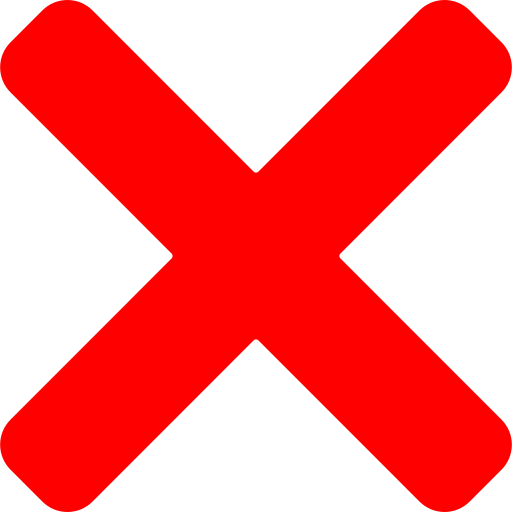
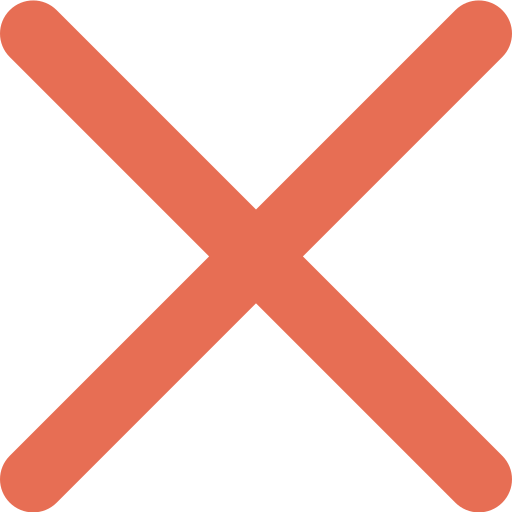
찐최종

diff --git a/src/components/Pages/Community/SubComponents/CommuNoticeDetail.css b/src/components/Pages/Community/SubComponents/CommuNoticeDetail.css
@@ -34,8 +34,8 @@
 .CommuNoticeEditButton{
     padding:10px 20px;
     background-color: transparent;
-    border:1px solid blue;
-    color:blue;
+    border:1px solid #0073CF;
+    color:#0073CF;
     cursor: pointer;
     display: flex;
 }
@@ -60,23 +60,22 @@
 }
 .CommuQnaEditDetailButtonWrap>button:first-child{
     background:transparent;
-    border:1px solid blue;
-    color:blue;
+    border:1px solid #0073CF;
+    color:#0073CF;
 }
 .CommuQnaEditDetailButtonWrap>button:last-child{
     background-color:transparent;
-    border:1px solid red;
-    color:red;
+    border:1px solid #E76E54;
+    color:#E76E54;
 }
 .CommuDetailDeleteButton{
     padding:10px 20px;
-    border:1px solid red;
-    color:red;
+    border:1px solid #E76E54;
+    color:#E76E54;
     background-color: transparent;
     margin-left: 10px;
     cursor: pointer;
     display: flex;
-    font-weight: bold;
 }
 
 .CommuNoticePageButtonIcon{
@@ -91,5 +90,5 @@
     height:16px;
     background: url(../img/delete_red.png) center;
     background-size: cover;
-    margin:2px 5px 0 0;
+    margin:3px 5px 0 0;
 }

diff --git a/src/components/Pages/Community/SubComponents/CommuQnaDetail.css b/src/components/Pages/Community/SubComponents/CommuQnaDetail.css
@@ -20,17 +20,17 @@
     display: flex;
 }
 .CommuQnaButtonWrap>div>div>button:first-child{
-    border:1px solid blue;
-    color:blue;
+    border:1px solid #0073CF;
+    color:#0073CF;
     background-color: transparent;
     padding:10px 20px;
     cursor: pointer;
     display: flex;
 }
 .CommuQnaButtonWrap>div>div>button:last-child{
-    border:1px solid red;
+    border:1px solid #E76E54;
     background-color: transparent;
-    color:red;
+    color:#E76E54;
     padding:10px 20px;
     margin-left: 20px;
     cursor: pointer;
@@ -70,8 +70,8 @@
     display: flex;
     text-align: center;
     background-color: transparent;
-    color:blue;
-    border: 1px solid blue;
+    color:#0073CF;
+    border: 1px solid #0073CF;
     cursor: pointer;
 }
 .CommuQuestionDetailButtonIcon{

diff --git a/src/components/Pages/Community/CommuList.css b/src/components/Pages/Community/CommuList.css
@@ -57,7 +57,7 @@
   }
   
   .Commuhide {
-    color:red;
+    color:#E76E54;
     padding-right: 20px;
   }
   
@@ -151,7 +151,7 @@
   }
   
   .CommuWrite {
-    padding: 10px 15px;
+    padding: 10px 20px;
     background-color: #00d67a;
     color:#ffffff;
     display: flex;

diff --git a/src/components/Pages/Community/SubComponents/CommuQnaWrite.css b/src/components/Pages/Community/SubComponents/CommuQnaWrite.css
@@ -31,5 +31,5 @@
     width:20px; height:20px;
     background: url(../img/write_white.png) center;
     background-size: cover;
-    margin-right: 5px;
+    margin:3px 5px 0 0;
 }

diff --git a/src/components/Pages/Community/SubComponents/CommuNoticeWrite.css b/src/components/Pages/Community/SubComponents/CommuNoticeWrite.css
@@ -25,4 +25,5 @@
     margin-top: 40px;
     float:right;
     cursor: pointer;
+    font-size: 16px;
 }
